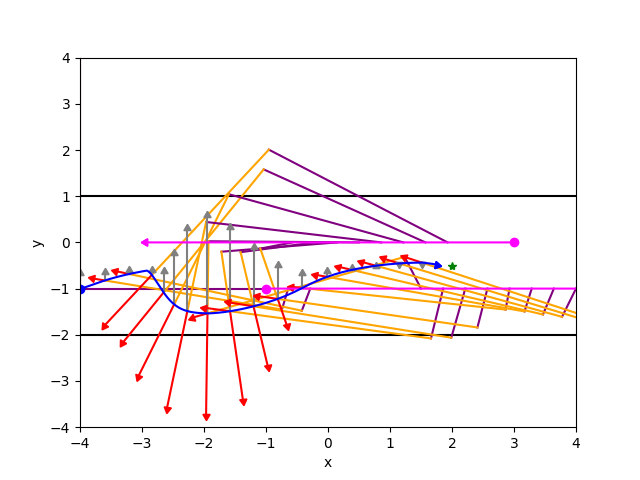
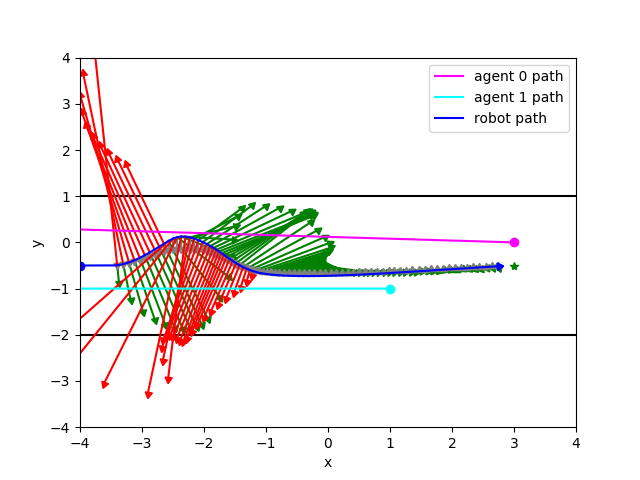
22

diff --git a/test_alg.py b/test_alg.py
@@ -5,18 +5,21 @@ import matplotlib.pyplot as plt
 import numpy
 import math
 from random import randint as ri
+from simple_pid import PID
 
 PICTURE_PATH = '/Users/wtw/Desktop/pddmrcs/test_results/'
 # PICTURE_PATH = /home/wtw-ub/workspace/pddmrcs/test_results/
 RATE = 100
-PLOT_PERIOD_TICKS = 100
+PLOT_PERIOD_TICKS = 20
 TIME = 60
-MAX_DIST = 5
+
+MAX_DIST = 4
 MIN_DIST = .5
-MAX_VEL = .5
+MAX_VEL_0 = .5
+MAX_VEL = MAX_VEL_0
 EPS = 1e-3
 
-def goal_force_test(robot_pose, robot_vel, goal_pose, iteration = 0, *, coef_g = 1):
+def goal_force_test(robot_pose, robot_vel, goal_pose, iteration = 0, *, coef_g = 1, mass = 1):
     max_linear_vel = MAX_VEL
     goal_dist_x = goal_pose[0] - robot_pose[0]
     goal_dist_y = goal_pose[1] - robot_pose[1]
@@ -25,7 +28,7 @@ def goal_force_test(robot_pose, robot_vel, goal_pose, iteration = 0, *, coef_g =
     goal_dist_unit = numpy.array([0,0,0], numpy.dtype("float64"))
     if goal_dist_norm:
         goal_dist_unit = goal_dist / goal_dist_norm
-    goal_force = coef_g * (goal_dist_unit * max_linear_vel - robot_vel)
+    goal_force = coef_g * mass * (goal_dist_unit * max_linear_vel - robot_vel)
     if (not iteration%PLOT_PERIOD_TICKS) and (iteration >= (0*RATE)):
         # plot_it(robot_pose, goal_force, color='green', arrow=True)
         pass
@@ -38,7 +41,18 @@ def social_force_test(robot_pose, robot_vel, agent_vel, agent_pose, iteration = 
                       ):
     actual_dist = robot_pose - agent_pose
     actual_dist_norm = numpy.linalg.norm(actual_dist, ord=2)
+    global MAX_VEL
+    vel_limit = MAX_VEL_0*(.1+math.exp(-((actual_dist_norm-MIN_DIST)**-1)/MAX_DIST))
+    if actual_dist_norm < MIN_DIST:
+        MAX_VEL = .1*MAX_VEL_0
+    elif MAX_VEL > vel_limit:
+        MAX_VEL = vel_limit
+    chasing = (numpy.dot(agent_vel, robot_vel) > 0)
     robot_vel_norm = numpy.linalg.norm(robot_vel, ord=2)
+    agent_vel_norm = numpy.linalg.norm(agent_vel)
+    agent_vel_unit = numpy.array([0,0,0],numpy.dtype('float64'))
+    if agent_vel_norm:
+        agent_vel_unit = agent_vel/agent_vel_norm
     agent_to_robot_vel_x = agent_vel[0] - robot_vel[0]
     agent_to_robot_vel_y = agent_vel[1] - robot_vel[1]
     agent_to_robot_vel = numpy.array([agent_to_robot_vel_x, agent_to_robot_vel_y, 0], numpy.dtype("float64"))
@@ -58,26 +72,45 @@ def social_force_test(robot_pose, robot_vel, agent_vel, agent_pose, iteration = 
         collision_dist = (  EPS * 
                             numpy.cross(  robot_vel/robot_vel_norm, 
                                         numpy.array([0,0,1],numpy.dtype('float64'))) *
-                            (-1)**(numpy.dot(agent_vel, robot_vel) > 0)
+                                        (-1)**(chasing)
                             )
         collision_dist_norm = EPS
     agent_to_robot_dist_norm = numpy.linalg.norm(agent_to_robot_dist, ord=2)
     social_force = coef_a * agent_to_robot_dist_norm * math.exp( - collision_dist_norm / coef_b) * (collision_dist / collision_dist_norm)
-    if (numpy.dot(agent_vel, robot_vel) > 0) and (numpy.dot(agent_vel, social_force) > 0):
+    
+    if chasing and (numpy.dot(agent_vel, social_force) > 0):
         social_force *= -1
+        social_force = -social_force + 2*numpy.dot(agent_vel_unit, social_force)*agent_vel_unit
+    elif not chasing and agent_vel_norm:
+        # robot_vel_right_unit = (numpy.cross( robot_vel/robot_vel_norm, 
+        #                         numpy.array([0,0,1],numpy.dtype('float64'))) *
+        #                             (-1)**chasing)
+        agent_vel_right_unit = (numpy.cross( agent_vel/agent_vel_norm, 
+                                numpy.array([0,0,1],numpy.dtype('float64'))) *
+                                    (-1)**chasing)
+        if (numpy.linalg.norm(actual_dist-agent_vel_right_unit*EPS) > actual_dist_norm):
+            social_force_norm = numpy.linalg.norm(social_force)
+            agent_vel_to_force_sin = numpy.cross(agent_vel_unit, social_force)[2]/social_force_norm
+            if (agent_vel_to_force_sin < 0):
+                social_force = -social_force + 2*numpy.dot(agent_vel_unit, social_force)*agent_vel_unit
+                pass
+
     if (not iteration%PLOT_PERIOD_TICKS) and (iteration >= (0*RATE)):
+        # agent_vel_right_unit = (numpy.cross( agent_vel/agent_vel_norm, 
+        #                         numpy.array([0,0,1],numpy.dtype('float64'))) *
+        #                             (-1)**chasing)
+        # plot_it(agent_pose, actual_dist, color='black', arrow=True)
+        # plot_it(agent_pose, actual_dist-agent_vel_right_unit*.1, color='green', arrow=True)
         # plot_it(agent_pose, [0,agent_to_robot_vel_angle_cos], color='green')
-        plot_it(agent_pose, agent_to_robot_dist, color='purple')
-        plot_it(robot_pose, -collision_dist, color='orange')
-        plot_it(robot_pose, [social_force[0],social_force[1]], color='red', arrow=True)
+        # plot_it(agent_pose, agent_to_robot_dist, color='purple')
+        # plot_it(robot_pose, -collision_dist, color='orange')
+        # plot_it(robot_pose, [social_force[0],social_force[1]], color='red', arrow=True)
         pass
     # print(f'social force: {social_force[0]: 3.3f} {social_force[1]: 3.3f}')
     return social_force
 
 def obstacle_force_test(robot_pose, iteration=0, *, coef_o=1, coef_c=1):
     obstacle_force = numpy.array([0,0,0], numpy.dtype('float64'))
-    coef_o = 10
-    coef_c = .3
     wall_1 = -2
     wall_2 = 1
     if iteration == 0:
@@ -89,7 +122,8 @@ def obstacle_force_test(robot_pose, iteration=0, *, coef_o=1, coef_c=1):
     obstacle_force += math.exp(-obstacle_distance_1 / coef_c) * obstacle_direction
     obstacle_force += math.exp(-obstacle_distance_2 / coef_c) * (-obstacle_direction)
     if (not iteration%PLOT_PERIOD_TICKS) and (iteration >= (0*RATE)):
-        plot_it(robot_pose, obstacle_force, arrow=True, color='grey')
+        # plot_it(robot_pose, obstacle_force, arrow=True, color='grey')
+        pass
     return obstacle_force
 
 def plot_it(origin, thing, *, color = 'purple', arrow=False, aster=False):
@@ -193,15 +227,18 @@ def test_situation_multi(*,
                     coef_a = 1,
                     coef_b = 1,
                     coef_o = 1, 
-                    coef_c = 1
+                    coef_c = 1,
+                    mass = 1
                     ):
     
+    global MAX_VEL
     dt = RATE**(-1)
     _res = '_ne_uspel'
     array_robot_x = []
     array_robot_y = []
     array_agent_x = []
     array_agent_y = []
+    robot_path_length = 0
     for j in range(len(agent_pose)):
         array_agent_x.append([])
         array_agent_y.append([])
@@ -211,53 +248,74 @@ def test_situation_multi(*,
         social_force = numpy.array([0, 0, 0], numpy.dtype("float64"))
         array_robot_x.append(robot_pose[0])
         array_robot_y.append(robot_pose[1])
+        MAX_VEL = MAX_VEL_0
+        goal_force = goal_force_test(robot_pose, robot_vel, goal_pose, i, coef_g = coef_g, mass=mass)
         for j in range(len(agent_pose)):
             array_agent_x[j].append(agent_pose[j][0])
             array_agent_y[j].append(agent_pose[j][1])
             if numpy.linalg.norm(robot_pose - agent_pose[j]) < MAX_DIST:
                 social_force += social_force_test(robot_pose, robot_vel, agent_vel[j], agent_pose[j], i, coef_a=coef_a, coef_b=coef_b)
-        goal_force = goal_force_test(robot_pose, robot_vel, goal_pose, i, coef_g = coef_g)
         obstacle_force = obstacle_force_test(robot_pose, i,  coef_o=coef_o, coef_c=coef_c)
+        if _print:
+            if (not i%PLOT_PERIOD_TICKS):
+                if numpy.linalg.norm(goal_force):
+                    plot_it(robot_pose, goal_force, color='green', arrow=True)
+                if numpy.linalg.norm(obstacle_force):
+                    plot_it(robot_pose, obstacle_force, color='grey', arrow=True)
+                if numpy.linalg.norm(social_force):
+                    plot_it(robot_pose, [social_force[0],social_force[1]], color='red', arrow=True)
         sum_force = goal_force + social_force + obstacle_force
-        robot_vel += sum_force *dt
-        robot_vel_norm = numpy.linalg.norm(robot_vel)
-        if robot_vel_norm > MAX_VEL:
-            robot_vel = MAX_VEL * (robot_vel/robot_vel_norm)
-        robot_pose += robot_vel *dt
+        robot_acc = sum_force/mass
+        robot_vel_des = robot_vel+robot_acc*dt
+        robot_vel_des_norm = numpy.linalg.norm(robot_vel_des)
+        # print(MAX_VEL)
+        if robot_vel_des_norm > MAX_VEL:
+            robot_vel_des = MAX_VEL * (robot_vel_des/robot_vel_des_norm)
+        robot_vel = robot_vel_des
+        robot_pose += robot_vel*dt
+        robot_path_length += numpy.linalg.norm(robot_vel)*dt
         for j in range(len(agent_pose)):
             agent_pose[j] += agent_vel[j] *dt
         if (numpy.linalg.norm(robot_pose - goal_pose) < MIN_DIST/2): 
-            if _print: print(f'\nbreak on time = {i/RATE:3.3f}: goal reached')
+            if _print: 
+                print(f'\nbreak on time = {i/RATE:3.3f}: goal reached')
+                print(f'total travel distance = {robot_path_length:3.3f}')
+                print(f'robot_vel_norm: {numpy.linalg.norm(robot_vel):3.3f}')
             _res = '_ok'
             plot_it([robot_pose[0],robot_pose[1]],[robot_vel[0]*dt,robot_vel[1]*dt], color='blue', arrow=True)
             for j in range(len(agent_pose)):
-                plot_it([agent_pose[j][0],agent_pose[j][1]],[agent_vel[j][0]*dt,agent_vel[j][1]*dt], color='magenta', arrow=True)
+                plot_it([agent_pose[j][0],agent_pose[j][1]],[agent_vel[j][0]*dt,agent_vel[j][1]*dt], color=['magenta', 'cyan'][j], arrow=True)
             break
         for j in range(len(agent_pose)):
             if (numpy.linalg.norm(robot_pose - agent_pose[j]) < MIN_DIST): 
-                if _print: print(f'\nbreak on time = {i/RATE:3.3f}: too close')
+                if _print: 
+                    print(f'\nbreak on time = {i/RATE:3.3f}: too close')
+                    print(f'robot_vel_norm: {numpy.linalg.norm(robot_vel):3.3f}')
                 _res = '_ploho'
                 plot_it([robot_pose[0],robot_pose[1]],[robot_vel[0]*dt,robot_vel[1]*dt], color='blue', arrow=True)
-                plot_it([agent_pose[j][0],agent_pose[j][1]],[agent_vel[j][0]*dt,agent_vel[j][1]*dt], color='magenta', arrow=True)
+                plot_it([agent_pose[j][0],agent_pose[j][1]],[agent_vel[j][0]*dt,agent_vel[j][1]*dt], color=['magenta', 'cyan'][j], arrow=True)
                 break
         if _res=='_ploho': break
                 
     if not _print:
         plt.clf()
         return _res
+    if _res == '_ne_uspel': print(f'\nbreak on time = {TIME:3.3f}: time limit')
     print('\nprinting...')
     for j in range(len(agent_pose)):
-        plot_it([agent_pose[j][0],agent_pose[j][1]],[agent_vel[j][0]*dt,agent_vel[j][1]*dt], color='magenta', arrow=True)
-        plt.plot(array_agent_x[j][0],array_agent_y[j][0], marker='o', color='magenta')
-        plt.plot(array_agent_x[j], array_agent_y[j], color='magenta')
+        plot_it([agent_pose[j][0],agent_pose[j][1]],[agent_vel[j][0]*dt,agent_vel[j][1]*dt], color=['magenta', 'cyan'][j], arrow=True)
+        plt.plot(array_agent_x[j][0],array_agent_y[j][0], marker='o', color=['magenta', 'cyan'][j])
+        plt.plot(array_agent_x[j], array_agent_y[j], color=['magenta', 'cyan'][j], label=f'agent {j} path')
     plot_it([robot_pose[0],robot_pose[1]],[robot_vel[0]*dt,robot_vel[1]*dt], color='blue', arrow=True)
     plt.plot(array_robot_x[0],array_robot_y[0], marker='o', color='blue')
-    plt.plot(array_robot_x, array_robot_y, color='blue')
+    plt.plot(array_robot_x, array_robot_y, color='blue', label='robot path')
     print('         ...done')
     plt.xlim((-4,4))
     plt.ylim((-4,4))
     plt.xlabel('x')
     plt.ylabel('y')
+    plt.legend()
+
     plt.savefig(PICTURE_PATH + 
                 _name + 
                 _res + 
@@ -303,7 +361,8 @@ def nerand_test_multi(*,
                     coef_a,
                     coef_b,
                     coef_o, 
-                    coef_c
+                    coef_c,
+                    m
                     ):
     return test_situation_multi(
                         goal_pose = numpy.array([gp_x, gp_y, 0], numpy.dtype("float64")),
@@ -324,7 +383,8 @@ def nerand_test_multi(*,
                         coef_a = coef_a,
                         coef_b = coef_b,
                         coef_o = coef_o, 
-                        coef_c = coef_c
+                        coef_c = coef_c,
+                        mass = m
                             )
 
 def rand_tests( steps = 1, *,
@@ -401,11 +461,35 @@ def look_for_optimal():
             pass
     print(f'                              ...done')
 
-
 def main():
+    
+    res = nerand_test_multi(gp_x = 3,           gp_y = -.5,
+                            rp_x = -4,          rp_y = -.5,
+                            rv_x = MAX_VEL,     rv_y = 0,
+                            ap1_x = 3,          ap1_y = 0.,
+                            av1_x = -MAX_VEL,   av1_y = 0.02,
+                            ap2_x = 1,          ap2_y = -1.,
+                            av2_x = -MAX_VEL,   av2_y = 0,
+                            coef_g = .5,
+                            coef_a = 1.5,
+                            coef_b = 4.9,
+                            coef_o = 5, 
+                            coef_c = .3,
+                            m = 10
+                        )
+    # print(res)
+    pass
+
+if __name__ == '__main__':
+    main()
+
+
+
+
+# useless fragments
+
     # look_for_optimal()
     
-
     # rand_tests(steps = 100, _print = True,
     #             coef_g = 2,
     #             coef_a = 2,
@@ -420,32 +504,6 @@ def main():
     #                     coef_a = 2,
     #                     coef_b = 2
     #                     )
-
-
-    res = nerand_test_multi(gp_x = 2, gp_y = -.5,
-                            rp_x = -4, rp_y = -1,
-                            rv_x = MAX_VEL, rv_y = 0,
-                            ap1_x = 3, ap1_y = 0,
-                            av1_x = -MAX_VEL/1.4, av1_y = 0,
-                            ap2_x = -1, ap2_y = -1,
-                            av2_x = MAX_VEL/1.4, av2_y = 0,
-                            coef_g = 2,
-                            coef_a = 2,
-                            coef_b = 2,
-                            coef_o = 10, 
-                            coef_c = .3
-                        )
-    # print(res)
-    pass
-
-if __name__ == '__main__':
-    main()
-
-
-
-
-# useless fragments
-
 
     # array_sum_force_x = []
     # array_sum_force_y = []
@@ -480,3 +538,10 @@ if __name__ == '__main__':
     # speed
     # plt.quiver(array_robot_x[i], array_robot_y[i], array_robot_vel_x[i], array_robot_vel_y[i], color='b', scale=100)
     # plt.quiver(array_agent_x[i], array_agent_y[i], array_agent_vel_x[i], array_agent_vel_y[i], color='r', scale=100)
+
+
+    # vel_pid_x = PID(Kp=0, Ki=10, Kd=0, setpoint=0)
+    # vel_pid_y = PID(Kp=0, Ki=10, Kd=0, setpoint=0)
+        # я не знаю, что с ними не так, поэтому вместо них будет масса
+        # robot_vel[0] = -vel_pid_x(robot_vel_des[0]-robot_vel[0])
+        # robot_vel[1] = -vel_pid_y(robot_vel_des[1]-robot_vel[1])
